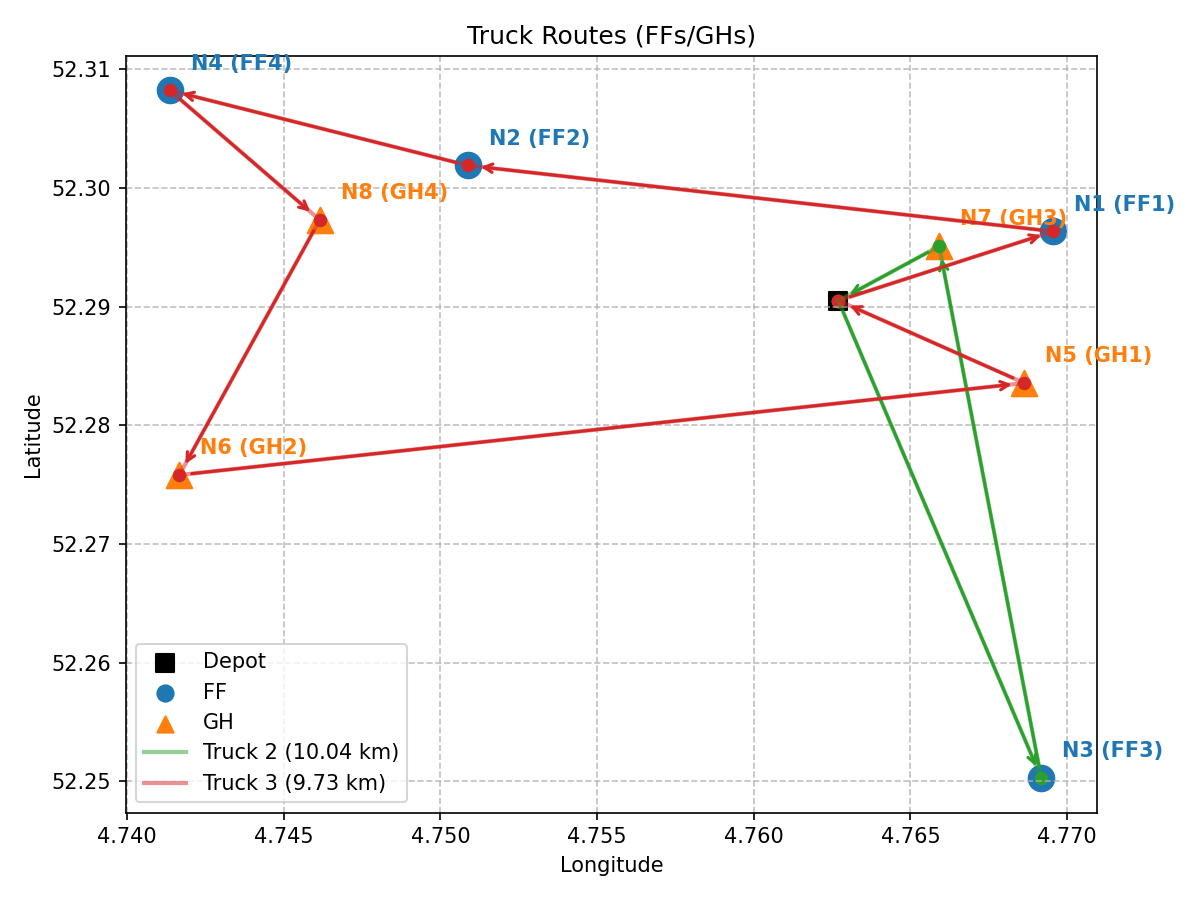
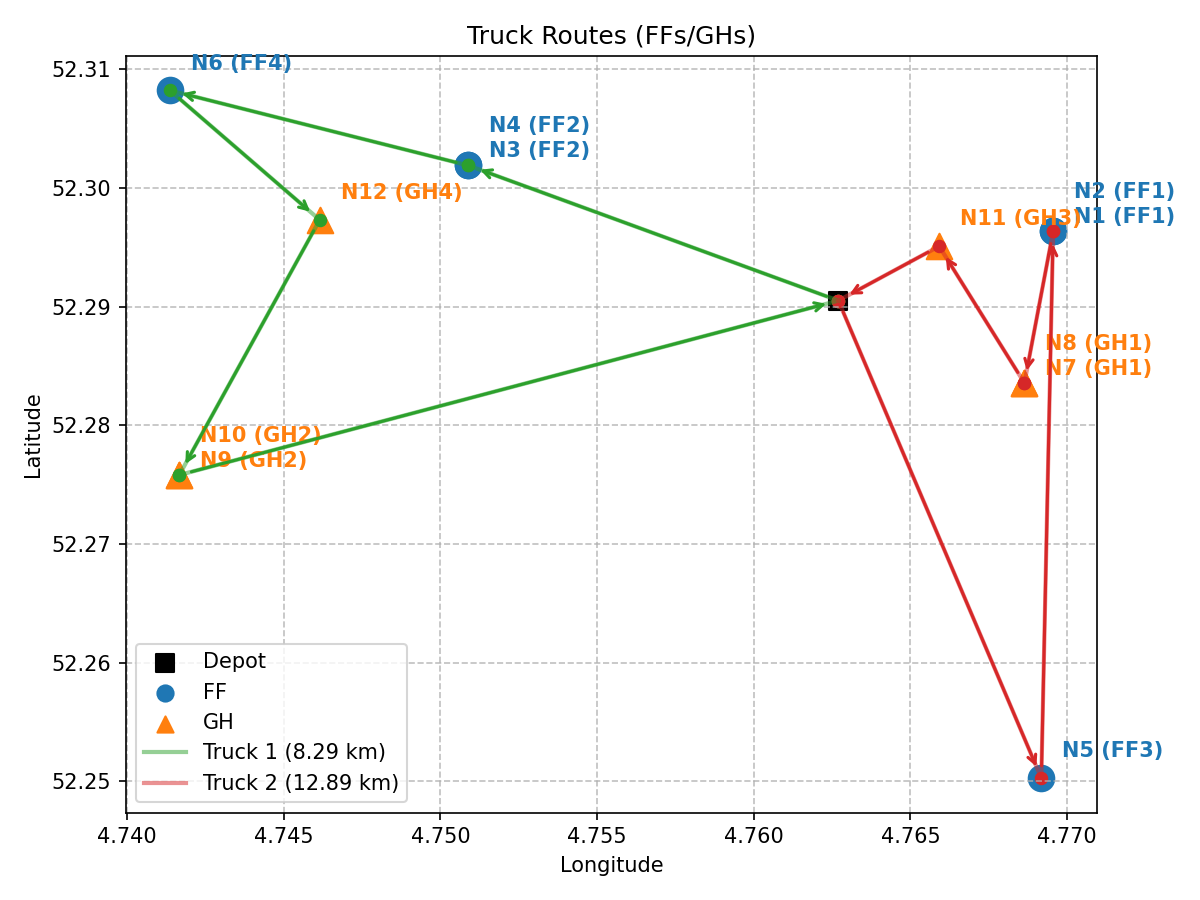
Update ULD count to 6, enhance node label positioning in route visualization, and update related images

diff --git a/Sensitivity_GH_FHs.py b/Sensitivity_GH_FHs.py
@@ -27,7 +27,7 @@ M=10000 # Big M for time constraints (should be larger than Horizon + max proces
 tighter_windows_instance=0 # proportion of nodes with tightened time windows (0.2 = 20% of nodes have tighter windows)
 Delta_GH = 1 # number of docks per GH (Assuming 'Very Large' instance setting or standard)
 Docks = list(range(1, Delta_GH + 1)) # Set of Docks
-n_uld = 4 # number of ULDs (Pickups = 1..n_uld, Deliveries = n_uld+1..2*n_uld)
+n_uld = 6 # number of ULDs (Pickups = 1..n_uld, Deliveries = n_uld+1..2*n_uld)
 K_trucks = [1, 2, 3] #truck instances
 Weight_u = 1000   # weight of each ULD in [kg]
 Length_u = 1.534  # length of each UL in [m]
@@ -62,25 +62,36 @@ def plot_routes(routes: Dict[int, List[int]], node_coords: List[List[float]], ff
     ax.scatter(depot[1], depot[0], c="black", s=80, marker="s", label="Depot")
 
     # Plot FFs and GHs
+    def _node_label_offset(node_idx: int, total_nodes: int, base_x: int, base_y: int):
+        if total_nodes <= 1:
+            return (base_x, base_y)
+        spread = 12
+        centered_rank = node_idx - (total_nodes - 1) / 2
+        return (base_x, base_y + int(centered_rank * spread))
+
     for f, nodes in ff_nodes.items():
-        for i in nodes:
+        total_nodes = len(nodes)
+        for node_idx, i in enumerate(nodes):
+            offset_xy = _node_label_offset(node_idx, total_nodes, 10, 10)
             ax.scatter(node_coords[i][1], node_coords[i][0], c="#1f77b4", s=150, marker="o")
             ax.annotate(
                 f"N{i} (FF{f})",
                 xy=(node_coords[i][1], node_coords[i][0]),
-                xytext=(10, 10),
+                xytext=offset_xy,
                 textcoords="offset points",
                 fontsize=10,
                 color="#1f77b4",
                 weight="bold",
             )
     for g, nodes in gh_nodes.items():
-        for i in nodes:
+        total_nodes = len(nodes)
+        for node_idx, i in enumerate(nodes):
+            offset_xy = _node_label_offset(node_idx, total_nodes, 10, 10)
             ax.scatter(node_coords[i][1], node_coords[i][0], c="#ff7f0e", s=150, marker="^")
             ax.annotate(
                 f"N{i} (GH{g})",
                 xy=(node_coords[i][1], node_coords[i][0]),
-                xytext=(10, 10),
+                xytext=offset_xy,
                 textcoords="offset points",
                 fontsize=10,
                 color="#ff7f0e",
@@ -120,6 +131,9 @@ def plot_routes(routes: Dict[int, List[int]], node_coords: List[List[float]], ff
     fig.tight_layout()
     fig.savefig(output_path, dpi=150)
     print(f"Route plot saved to: {output_path}")
+
+    plt.show()
+
 
 def plot_truck_timeline_gantt(
     routes: Dict[int, List[int]],
@@ -350,7 +364,7 @@ locs_3 = {
 }
 
 locs_4 = {
-    'FF1': (dms_to_dd(52,17,46.8), dms_to_dd(4,46,10.4)),
+    'FF2': (dms_to_dd(52,18,6.8),  dms_to_dd(4,45,3.2)),
     'GH1': (dms_to_dd(52,17,0.8),  dms_to_dd(4,46,7.1)),
     'GH2': (dms_to_dd(52,16,32.9), dms_to_dd(4,44,30.0)),
 }
